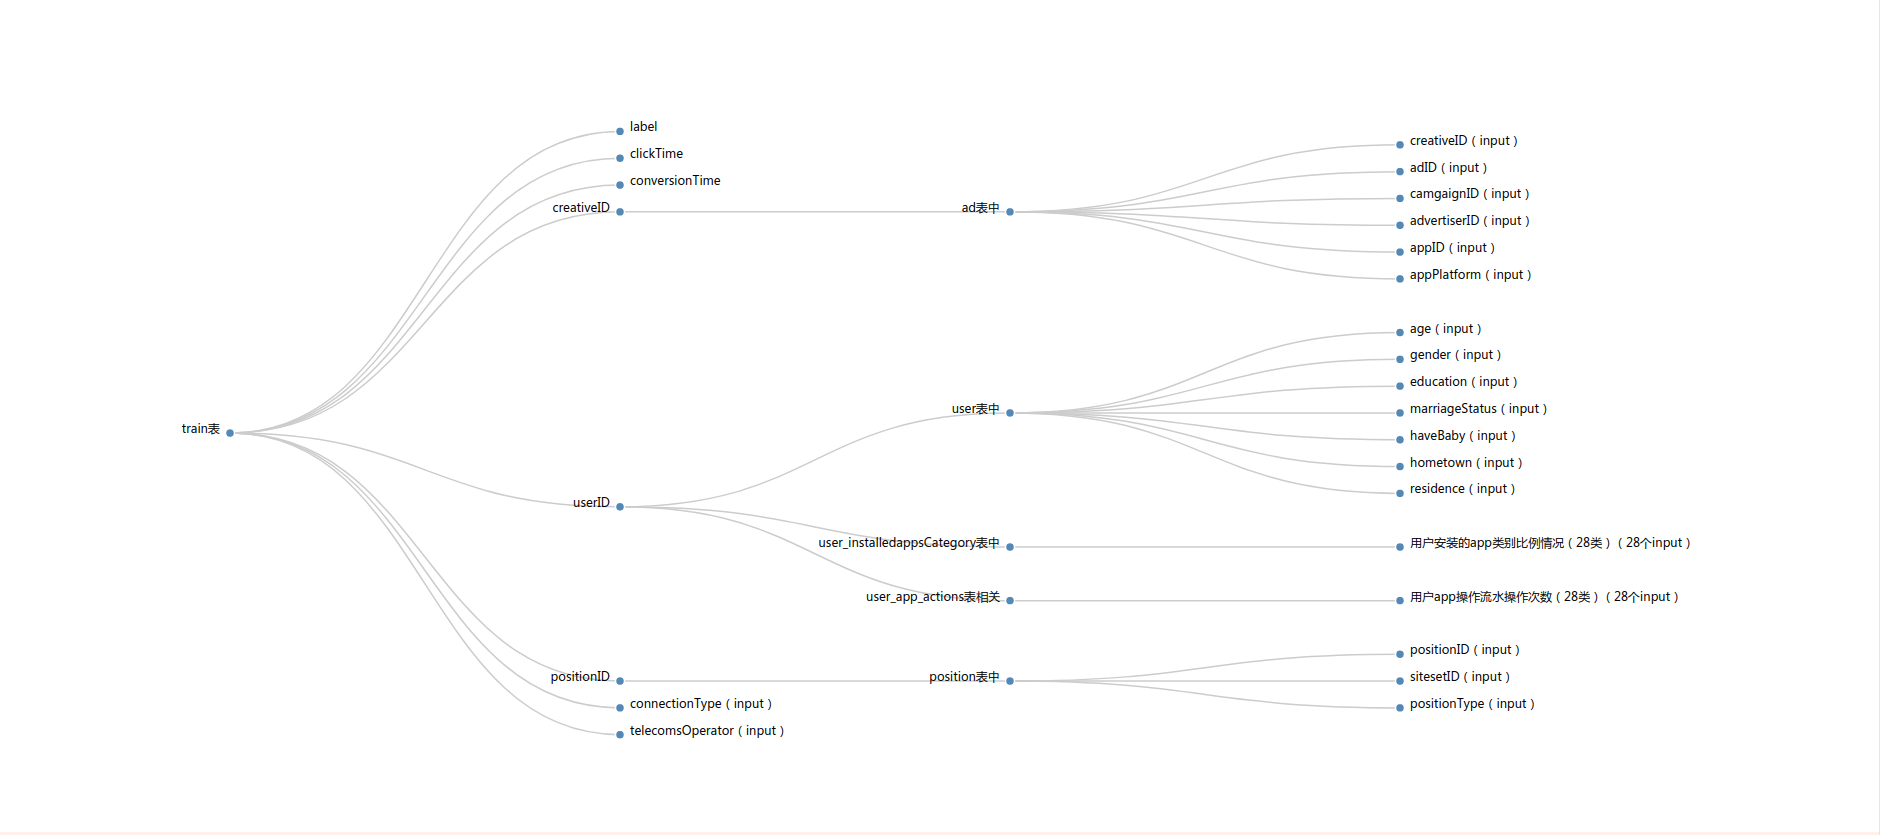
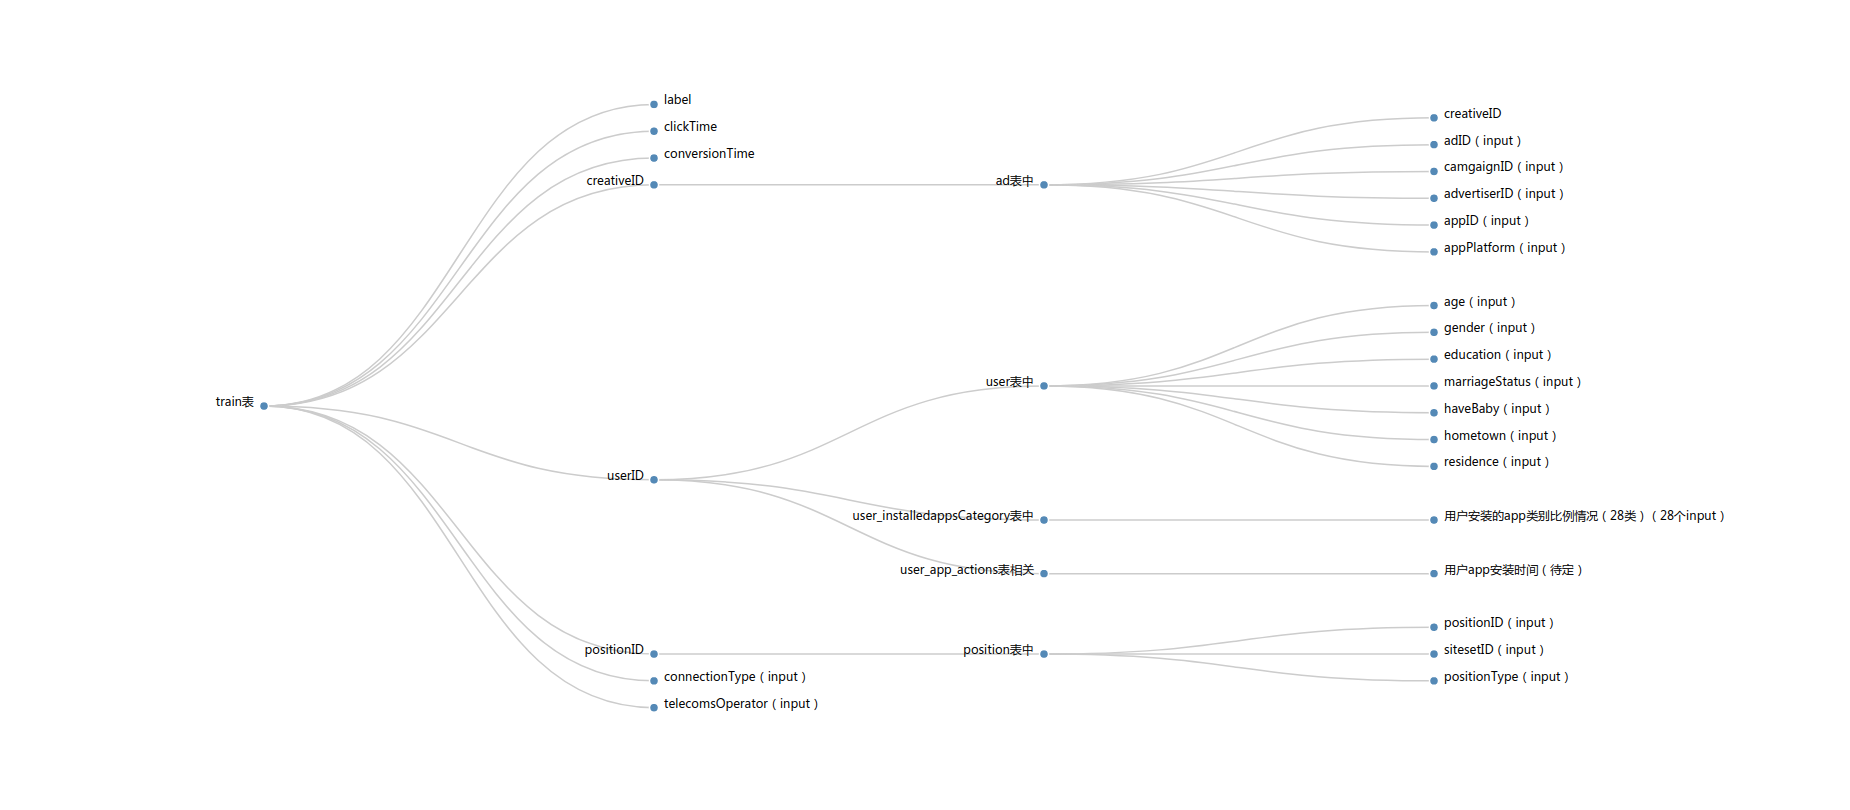
训练实例的get

diff --git a/db/preDb.py b/db/preDb.py
@@ -1,0 +1,164 @@
+import pymongo
+import numpy as np
+
+
+class preDb(object):
+    def __init__(self):
+        client = pymongo.MongoClient('localhost', 27017)
+        self.db = client.pre
+
+        self.app_categories = [
+            2, 203, 104, 402, 301, 407, 101, 408, 106, 0, 201, 409, 503, 210,
+            108, 211, 1, 110, 405, 401, 109, 103, 209, 406, 303, 403, 105, 204
+        ]
+        self.calc_app_categories()
+
+    def calc_app_categories(self):
+        app_categories = []
+        for line in self.db.app_categories.find():
+            if not line["appCategory"] in app_categories:
+                app_categories.append(line["appCategory"])
+        self.app_categories = app_categories.copy()
+        print(self.app_categories)
+
+    def get_user_installedappsCategory(self, user_id):
+        '''
+        得到用户的app安装列表的app分类占比和安装的app数量，app类别28类
+        '''
+        find_result = self.db.user_installedappsCategory.find_one({
+            "userID":
+            user_id
+        })
+        if find_result is not None:
+            return {
+                "appsCategory": find_result["appsCategory"],
+                "appNum": find_result['InstalledAppNum']
+            }
+
+        installed_app_list = []
+        for line in self.db.user_installedapps.find({"userID": user_id}):
+            installed_app_list.append(line['appID'])
+
+        app_category_id_dict = {}
+        for app_id in installed_app_list:
+            app_category_id = self.db.app_categories.find({
+                "appID": app_id
+            })[0]['appCategory']
+            if app_category_id in app_category_id_dict:
+                app_category_id_dict[app_category_id] += 1
+            else:
+                app_category_id_dict[app_category_id] = 1
+
+        installedappsCategory_rate = []
+        for category_id in self.app_categories:
+            if category_id in app_category_id_dict:
+                installedappsCategory_rate.append(
+                    app_category_id_dict[category_id] /
+                    len(installed_app_list))
+            else:
+                installedappsCategory_rate.append(0)
+
+        installed_app_num = len(installed_app_list)
+
+        self.db.user_installedappsCategory.insert({
+            "userID":
+            user_id,
+            "appsCategory":
+            installedappsCategory_rate,
+            "InstalledAppNum":
+            installed_app_num
+        })
+        return {
+            "appsCategory": installedappsCategory_rate,
+            "appNum": installed_app_num
+        }
+
+    def get_user_app_actions(self, user_id):
+        '''
+        得到用户的app操作行为的app分类次数，app类别28类
+        '''
+
+    def get_a_train_instance(self, index):
+        '''
+        得到一条训练条目的输入数据和结果
+        '''
+        #先在train_instance查找，有则直接返回
+        find_result = self.db.train_instance.find_one({"index": index})
+        if find_result is not None:
+            return {
+                'input_val': np.array(find_result["input_val"]),
+                'correct_result': find_result["correct_result"]
+            }
+
+        instance = self.db.train.find().limit(1).skip(index)[0]
+        print(str(instance))
+
+        input_val = []
+
+        input.append(instance["connectionType"])
+        input.append(instance["telecomsOperator"])
+
+        ad = self.db.ad.find_one({"creativeID": instance["creativeID"]})
+        input_val.append(ad["adID"])
+        input_val.append(ad["camgaignID"])
+        input_val.append(ad["advertiserID"])
+        input_val.append(ad["appID"])
+        input_val.append(ad["appPlatform"])
+        # instance["adID"] = ad["adID"]
+        # instance["camgaignID"] = ad["camgaignID"]
+        # instance["advertiserID"] = ad["advertiserID"]
+        # instance["appID"] = ad["appID"]
+        # instance["appPlatform"] = ad["appPlatform"]
+
+        user = self.db.user.find_one({"userID": instance['userID']})
+        input_val.append(user["age"])
+        input_val.append(user["gender"])
+        input_val.append(user["education"])
+        input_val.append(user["marriageStatus"])
+        input_val.append(user["haveBaby"])
+        input_val.append(user["hometown"])
+        input_val.append(user["residence"])
+        # instance["age"] = user["age"]
+        # instance["gender"] = user["gender"]
+        # instance["education"] = user["education"]
+        # instance["marriageStatus"] = user["marriageStatus"]
+        # instance["haveBaby"] = user["haveBaby"]
+        # instance["hometown"] = user["hometown"]
+        # instance["residence"] = user["residence"]
+
+        position = self.db.position.find_one({
+            "positionID":
+            instance['positionID']
+        })
+        input_val.append(position["positionID"])
+        input_val.append(position["sitesetID"])
+        input_val.append(position["positionType"])
+        # instance["positionID"] = position["positionID"]
+        # instance["sitesetID"] = position["sitesetID"]
+        # instance["positionType"] = position["positionType"]
+
+        #TODO：安装列表时间的处理。
+
+        installedappsCategory = self.get_user_installedappsCategory(
+            instance['userID'])
+        for category_rate in installedappsCategory["appsCategory"]:
+            input_val.append(category_rate)
+
+        correct_result = 0.1
+        if instance["label"] == 1 and instance["conversionTime"] / 10000 == instance["clickTime"] / 10000:
+            correct_result = 0.9
+        
+        self.db.train_instance.insert({
+                "index": index,
+                'input_val': input_val,
+                'correct_result': correct_result
+            })
+        return {
+            'input_val': np.array(input_val),
+            'correct_result': correct_result
+        }
+
+
+pre_db = preDb()
+print(pre_db.get_user_installedappsCategory(2798058))
+# print(pre_db.get_a_train_instance(0)

diff --git a/README.md b/README.md
@@ -12,7 +12,7 @@
 
 !creativeID
 !!ad表中
-!!!creativeID（input）
+!!!creativeID
 !!!adID（input）
 !!!camgaignID（input）
 !!!advertiserID（input）
@@ -31,7 +31,7 @@
 !!user_installedappsCategory表中
 !!!用户安装的app类别比例情况（28类）（28个input）
 !!user_app_actions表相关
-!!!用户app操作流水操作次数（28类）（28个input）
+!!!用户app安装时间（待定）
 
 !positionID
 !!position表中
